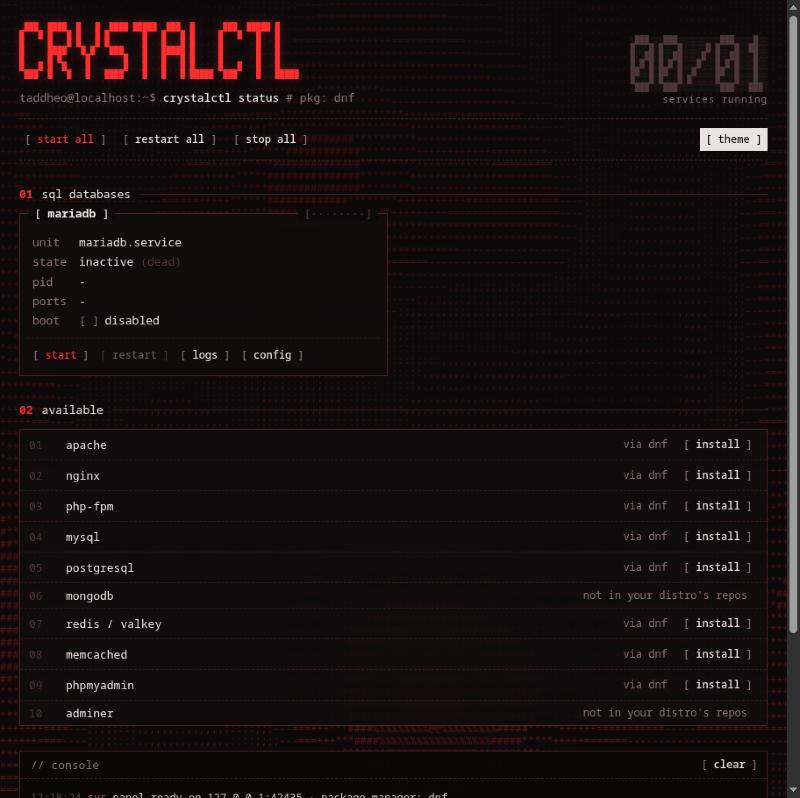
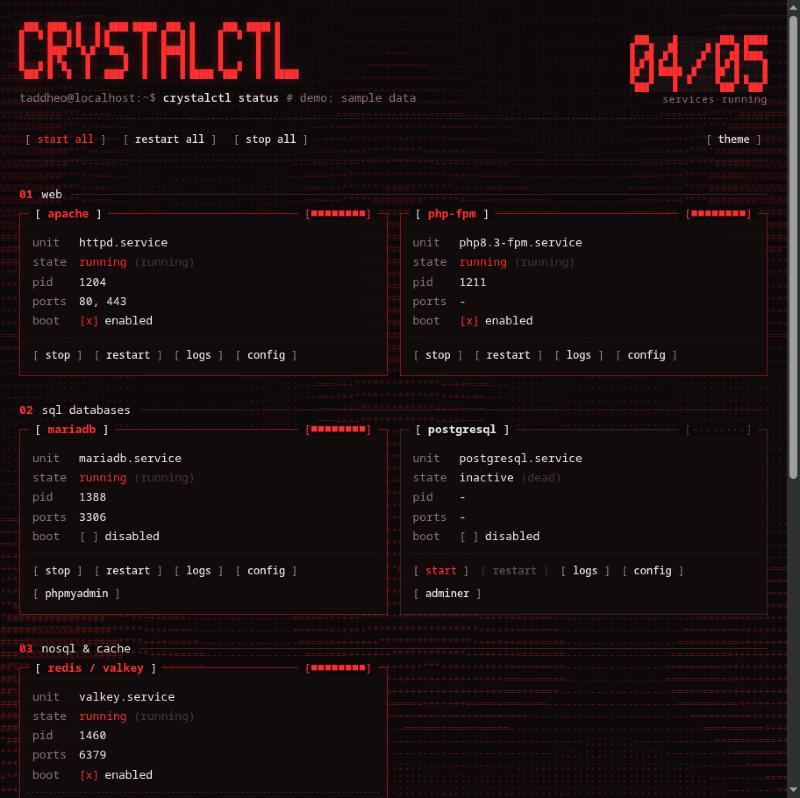
README gallery, --demo mode, and restart-all no longer starts stopped services
- crystalctl-gui --demo: sample services in memory, so anyone can try the panel
  (and screenshots can be taken) without installing anything or touching the system.
- README: animated GIF, dark/light, logs, install and console screenshots, all from --demo.
- Fix: "restart all" (panel) and `crystalctl restart` with no arguments used
  `systemctl restart`, which also starts services that were stopped; they now use
  `systemctl try-restart`.

diff --git a/gui/panel.html b/gui/panel.html
@@ -241,7 +241,7 @@ function render() {
   // lit cells red when something runs, unlit cells drawn faint like a display
   $("#count").innerHTML = esc(banner(`${pad2(running)}/${pad2(installed.length)}`, "█", "░"))
     .replace(/█+/g, (m) => running ? `<span class="on">${m}</span>` : m);
-  $("#pm").textContent = `# pkg: ${state.pm || "none"} `;
+  $("#pm").textContent = state.demo ? "# demo: sample data " : `# pkg: ${state.pm || "none"} `;
   $("#busy").textContent = state.busy ? "working…" : "";
 
   let html = "", n = 0;

diff --git a/tests/test_gui.py b/tests/test_gui.py
@@ -3,6 +3,7 @@ import importlib.util
 import json
 import os
 import threading
+import time
 import unittest
 import urllib.request
 from http.server import ThreadingHTTPServer
@@ -64,6 +65,39 @@ class PanelApiTest(unittest.TestCase):
         code, data = self.call("/api/install-plan?id=postgresql")
         self.assertEqual(code, 200)
         self.assertEqual(data["commands"][0], ["dnf", "install", "-y", "postgresql-server"])
+
+
+class DemoModeTest(unittest.TestCase):
+    def wait_idle(self, app):
+        for _ in range(100):
+            if not app.console.busy:
+                return
+            time.sleep(0.05)
+        self.fail("task did not finish")
+
+    def test_demo_shows_sample_services(self):
+        by = {s["id"]: s for s in gui.core.status(gui.DemoRunner())}
+        self.assertEqual(by["apache"]["active"], "active")
+        self.assertEqual(by["apache"]["ports"], [80, 443])
+        self.assertEqual(by["postgresql"]["active"], "inactive")
+        self.assertEqual(by["mariadb"]["admin"]["label"], "phpMyAdmin")
+        self.assertFalse(by["nginx"]["installed"])
+
+    def test_demo_actions_change_only_memory(self):
+        app = gui.App(gui.DemoRunner())
+        self.assertTrue(app.demo)
+        app.action("apache", "stop")
+        self.wait_idle(app)
+        app.action("postgresql", "enable")
+        self.wait_idle(app)
+        app.action("all", "restart")
+        self.wait_idle(app)
+        by = {s["id"]: s for s in gui.core.status(app.runner)}
+        self.assertEqual(by["apache"]["active"], "inactive")  # stopped above; restart all must not revive it
+        self.assertEqual(by["postgresql"]["active"], "active")
+        self.assertTrue(by["postgresql"]["enabled"])
+        app.open_path("apache", "config")  # must not launch a real editor
+        self.assertIn("demo: would open", app.console.lines[-1]["text"])
 
 
 if __name__ == "__main__":

diff --git a/lib/crystal_core.py b/lib/crystal_core.py
@@ -195,7 +195,8 @@ def privileged(cmd, gui=False, runner=None):
     return ["sudo"] + list(cmd)
 
 
-def action_command(service_id, action, units):
+def action_command(service_id, action, units, bulk=False):
+    """`bulk` is for "restart everything": plain restart would also start services the user left stopped."""
     if action not in ACTIONS:
         raise ValueError(f"unknown action: {action}")
     unit = find_unit(by_id(service_id), units)
@@ -203,6 +204,8 @@ def action_command(service_id, action, units):
         raise ValueError(f"{service_id} is not installed")
     if action in ("enable", "disable"):
         return ["systemctl", action, "--now", unit]
+    if action == "restart" and bulk:
+        return ["systemctl", "try-restart", unit]
     return ["systemctl", action, unit]
 
 

diff --git a/tests/test_core.py b/tests/test_core.py
@@ -99,6 +99,9 @@ class CommandTest(unittest.TestCase):
         units = ["httpd", "mariadb"]
         self.assertEqual(core.action_command("apache", "restart", units), ["systemctl", "restart", "httpd"])
         self.assertEqual(core.action_command("mariadb", "enable", units), ["systemctl", "enable", "--now", "mariadb"])
+        # restarting everything must not start what was stopped
+        self.assertEqual(core.action_command("apache", "restart", units, bulk=True), ["systemctl", "try-restart", "httpd"])
+        self.assertEqual(core.action_command("apache", "stop", units, bulk=True), ["systemctl", "stop", "httpd"])
         with self.assertRaises(ValueError):
             core.action_command("apache", "rm -rf /", units)
         with self.assertRaises(ValueError):

diff --git a/README.md b/README.md
@@ -11,9 +11,30 @@
 
 <sub>Formerly Lamp_ControlPanel. Running `./install.sh` again removes the old `lamp` commands.</sub>
 
-![Dark theme](assets/panel-dark.png)
+![crystalctl panel with its animated ASCII background](assets/panel-live.gif)
 
 </div>
+
+## Screenshots
+
+<sub>All taken with `crystalctl-gui --demo`, which shows sample services and changes nothing on your system.</sub>
+
+| Dark | Light |
+|---|---|
+| ![Dark theme with running services](assets/panel-dark.png) | ![Light theme](assets/panel-light.png) |
+| **Logs** from the journal, per service | **Install** shows the exact commands first |
+| ![Journal dialog](assets/panel-logs.png) | ![Install confirmation](assets/panel-install.png) |
+
+**Console**: every action prints the command it ran and how it ended.
+
+![Console after restarting everything](assets/panel-console.png)
+
+### Try it without installing anything
+
+```bash
+git clone https://github.com/taddheotorres/crystalctl.git
+crystalctl/bin/crystalctl-gui --demo
+```
 
 ## What it manages
 
@@ -62,7 +83,6 @@ Open **crystalctl** from your app menu, or run `crystalctl gui`. It opens as an 
 Chromium, Chrome, Brave or Edge if you have one, otherwise in your default browser. It closes itself
 about 45 seconds after you close the window.
 
-![Light theme](assets/panel-light.png)
 
 ### Terminal
 
@@ -100,6 +120,7 @@ Redis / Valkey  valkey          ○ inactive  no     -        -
 ```bash
 python3 -m unittest discover -s tests   # no root and no services needed
 bin/crystalctl-gui --no-window                # prints the panel URL instead of opening a window
+bin/crystalctl-gui --demo                     # sample services, nothing is changed
 ```
 
 ## Uninstall
